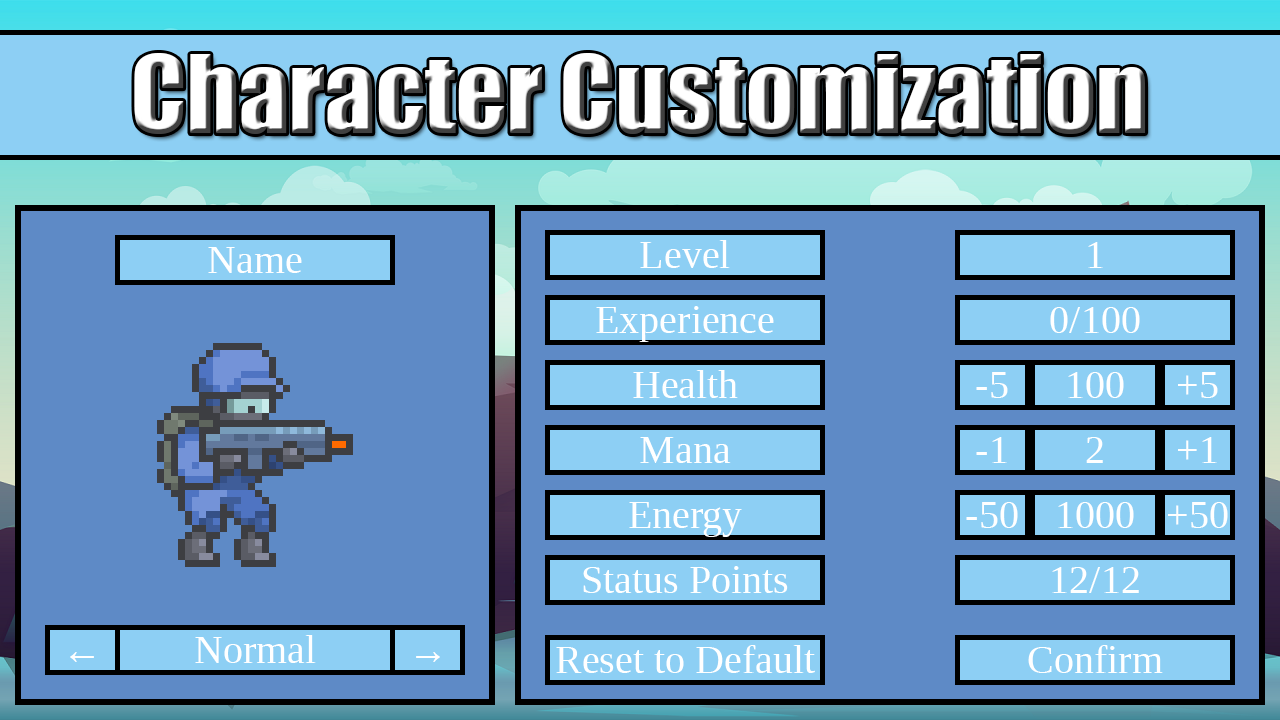
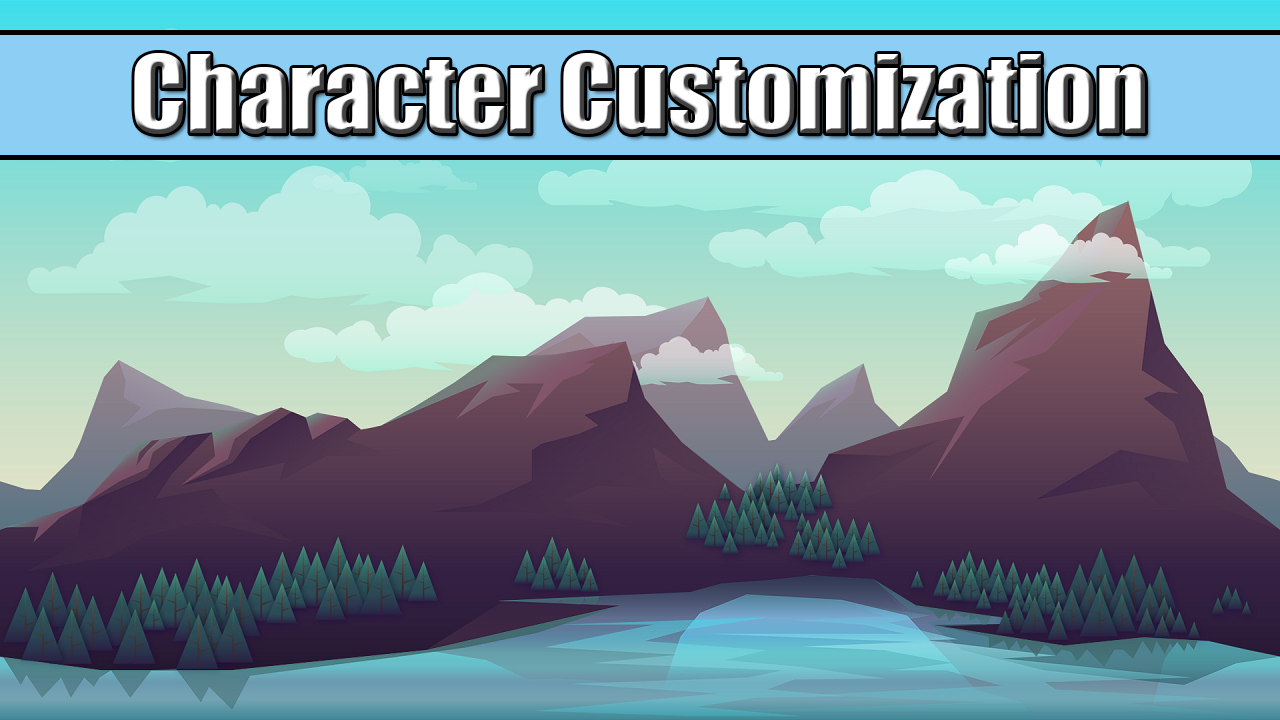
[Game Project 10] Travelers of Elrualia v0.2.4f - Menus - Update(Menu[character_customization, interface)

diff --git a/[Game Project 10] Travelers of Elrualia.py b/[Game Project 10] Travelers of Elrualia.py
@@ -147,6 +147,10 @@ class Game:
         self.ui_color = self.game_dict["ui_color"]
         self.status_color = self.game_dict["status_color"]
 
+        self.interface_color = self.game_dict["interface_color"]
+        self.interface_border_color = self.game_dict["interface_border_color"]
+        self.interface_border_size = self.game_dict["interface_border_size"]
+
         # Pause Screen
         self.dim_screen = pygame.Surface(self.gameDisplay.get_size()).convert_alpha()
         self.dim_screen.fill((100, 100, 100, 120))
@@ -199,6 +203,10 @@ class Game:
             "options_menu": {
                 "game_status": "options_menu",
                 "background": "background_options.png",
+                "music": "PerituneMaterial_Whisper_loop.ogg"},
+            "character_customization": {
+                "game_status": "character_customization",
+                "background": "background_chracter_customization.png",
                 "music": "PerituneMaterial_Whisper_loop.ogg"},
             "dialogue_1": {
                 "game_status": "battle",
@@ -256,6 +264,48 @@ class Game:
                 "sound_active": None, "sound_action": None},
             "options_confirm": {
                 "pos": [590, 660], "width": 280, "height": 50, "border_size": self.button_border_size, "border_color": self.button_border_color, "center": True,
+                "inactive": self.button_inactive, "active": self.button_active, "font": self.button_font, "color": self.button_color,
+                "sound_active": None, "sound_action": None},
+
+            # Character Customization ---------- #
+            "character_difficulty_left": {
+                "pos": [82, 655], "width": 75, "height": 50, "border_size": self.button_border_size, "border_color": self.button_border_color, "center": True,
+                "inactive": self.button_inactive, "active": self.button_active, "font": self.button_font, "color": self.button_color,
+                "sound_active": None, "sound_action": None},
+            "character_difficulty_right": {
+                "pos": [427, 655], "width": 75, "height": 50, "border_size": self.button_border_size, "border_color": self.button_border_color, "center": True,
+                "inactive": self.button_inactive, "active": self.button_active, "font": self.button_font, "color": self.button_color,
+                "sound_active": None, "sound_action": None},
+            "character_health_down": {
+                "pos": [992, 385], "width": 75, "height": 50, "border_size": self.button_border_size, "border_color": self.button_border_color, "center": True,
+                "inactive": self.button_inactive, "active": self.button_active, "font": self.button_font, "color": self.button_color,
+                "sound_active": None, "sound_action": None},
+            "character_health_up": {
+                "pos": [1197, 385], "width": 75, "height": 50, "border_size": self.button_border_size, "border_color": self.button_border_color, "center": True,
+                "inactive": self.button_inactive, "active": self.button_active, "font": self.button_font, "color": self.button_color,
+                "sound_active": None, "sound_action": None},
+            "character_mana_down": {
+                "pos": [992, 450], "width": 75, "height": 50, "border_size": self.button_border_size, "border_color": self.button_border_color, "center": True,
+                "inactive": self.button_inactive, "active": self.button_active, "font": self.button_font, "color": self.button_color,
+                "sound_active": None, "sound_action": None},
+            "character_mana_up": {
+                "pos": [1197, 450], "width": 75, "height": 50, "border_size": self.button_border_size, "border_color": self.button_border_color, "center": True,
+                "inactive": self.button_inactive, "active": self.button_active, "font": self.button_font, "color": self.button_color,
+                "sound_active": None, "sound_action": None},
+            "character_energy_down": {
+                "pos": [992, 515], "width": 75, "height": 50, "border_size": self.button_border_size, "border_color": self.button_border_color, "center": True,
+                "inactive": self.button_inactive, "active": self.button_active, "font": self.button_font, "color": self.button_color,
+                "sound_active": None, "sound_action": None},
+            "character_energy_up": {
+                "pos": [1197, 515], "width": 75, "height": 50, "border_size": self.button_border_size, "border_color": self.button_border_color, "center": True,
+                "inactive": self.button_inactive, "active": self.button_active, "font": self.button_font, "color": self.button_color,
+                "sound_active": None, "sound_action": None},
+            "character_reset": {
+                "pos": [685, 660], "width": 280, "height": 50, "border_size": self.button_border_size, "border_color": self.button_border_color, "center": True,
+                "inactive": self.button_inactive, "active": self.button_active, "font": self.button_font, "color": self.button_color,
+                "sound_active": None, "sound_action": None},
+            "character_confirm": {
+                "pos": [1095, 660], "width": 280, "height": 50, "border_size": self.button_border_size, "border_color": self.button_border_color, "center": True,
                 "inactive": self.button_inactive, "active": self.button_active, "font": self.button_font, "color": self.button_color,
                 "sound_active": None, "sound_action": None},
         }
@@ -336,6 +386,39 @@ class Game:
             self.draw_shape(pygame.draw.rect, [180, 325, 280, 50], self.button_inactive, self.button_border_color, self.button_border_size)
             self.draw_text("Fullscreen", self.button_font, self.button_color, (180, 325), "center")
 
+        elif self.game_status == "character_customization":
+            self.draw_shape(pygame.draw.rect, [255, 455, 480, 500], self.interface_color, self.interface_border_color, self.interface_border_size)
+            self.draw_shape(pygame.draw.rect, [890, 455, 750, 500], self.interface_color, self.interface_border_color, self.interface_border_size)
+
+            self.draw_shape(pygame.draw.rect, [255, 255, 280, 50], self.button_inactive, self.button_border_color, self.button_border_size)
+            self.draw_text("Player", self.button_font, self.button_color, (255, 255), "center")
+            self.draw_shape(pygame.draw.rect, [255, 655, 280, 50], self.button_inactive, self.button_border_color, self.button_border_size)
+            self.draw_text("Difficulty", self.button_font, self.button_color, (255, 655), "center")
+
+            self.draw_shape(pygame.draw.rect, [685, 255, 280, 50], self.button_inactive, self.button_border_color, self.button_border_size)
+            self.draw_text("Level", self.button_font, self.button_color, (685, 255), "center")
+            self.draw_shape(pygame.draw.rect, [1095, 255, 280, 50], self.button_inactive, self.button_border_color, self.button_border_size)
+            self.draw_text("Level", self.button_font, self.button_color, (1095, 255), "center")
+            self.draw_shape(pygame.draw.rect, [685, 320, 280, 50], self.button_inactive, self.button_border_color, self.button_border_size)
+            self.draw_text("Experience", self.button_font, self.button_color, (685, 320), "center")
+            self.draw_shape(pygame.draw.rect, [1095, 320, 280, 50], self.button_inactive, self.button_border_color, self.button_border_size)
+            self.draw_text("Experience", self.button_font, self.button_color, (1095, 320), "center")
+            self.draw_shape(pygame.draw.rect, [685, 385, 280, 50], self.button_inactive, self.button_border_color, self.button_border_size)
+            self.draw_text("Heatlh", self.button_font, self.button_color, (685, 385), "center")
+            self.draw_shape(pygame.draw.rect, [1095, 385, 130, 50], self.button_inactive, self.button_border_color, self.button_border_size)
+            self.draw_text("Heatlh", self.button_font, self.button_color, (1095, 385), "center")
+            self.draw_shape(pygame.draw.rect, [685, 450, 280, 50], self.button_inactive, self.button_border_color, self.button_border_size)
+            self.draw_text("Mana", self.button_font, self.button_color, (685, 450), "center")
+            self.draw_shape(pygame.draw.rect, [1095, 450, 130, 50], self.button_inactive, self.button_border_color, self.button_border_size)
+            self.draw_text("Mana", self.button_font, self.button_color, (1095, 450), "center")
+            self.draw_shape(pygame.draw.rect, [685, 515, 280, 50], self.button_inactive, self.button_border_color, self.button_border_size)
+            self.draw_text("Energy", self.button_font, self.button_color, (685, 515), "center")
+            self.draw_shape(pygame.draw.rect, [1095, 515, 130, 50], self.button_inactive, self.button_border_color, self.button_border_size)
+            self.draw_text("Energy", self.button_font, self.button_color, (1095, 515), "center")
+            self.draw_shape(pygame.draw.rect, [685, 580, 280, 50], self.button_inactive, self.button_border_color, self.button_border_size)
+            self.draw_text("Status Points", self.button_font, self.button_color, (685, 580), "center")
+            self.draw_shape(pygame.draw.rect, [1095, 580, 280, 50], self.button_inactive, self.button_border_color, self.button_border_size)
+            self.draw_text("Status Points", self.button_font, self.button_color, (1095, 580), "center")
 
         elif self.game_status == "battle":
             self.gameDisplay.blit(self.interface_image, (0, 0))
@@ -344,11 +427,9 @@ class Game:
             pygame.draw.rect(self.gameDisplay, self.game_dict["color"]["cursor"], (int(self.player.debug_pos[0] + (self.player.grid_pos[0]+4) * self.player.grid_dt[0]), int(self.player.debug_pos[1] + self.player.grid_pos[1] * self.player.grid_dt[1]), self.player.debug_dt[0], self.player.debug_dt[1]))
 
             # Player --------------------------- #
-            index = 0
-            for cooldown in self.player.cooldown:
+            for index, cooldown in enumerate(self.player.cooldown):
                 pygame.draw.rect(self.gameDisplay, LIGHTGREY, (50+50*index, 670, 40, int(-40 * self.player.cooldown[cooldown] / self.player.spell_cooldown[cooldown])))
                 self.draw_text(cooldown, self.ui_font, BLUE, (70+50*index, 650), "center")
-                index += 1
 
             pygame.draw.rect(self.gameDisplay, LIGHTGREY, (270, 630, int(100 * self.player.mana / self.player.max_mana), 40))
             self.draw_text(int(self.player.mana), self.ui_font, self.ui_color, self.player.mana_pos, "center")
@@ -403,7 +484,7 @@ class Game:
                     button.kill()
 
                 if self.game_status == "main_menu":
-                    Button(self, self.button_dict, "new_game", self.buttons, "New Game", action=self.update_stage, variable="battle_1")
+                    Button(self, self.button_dict, "new_game", self.buttons, "New Game", action=self.update_stage, variable="character_customization")
                     Button(self, self.button_dict, "load_game", self.buttons, "Load Game")
                     Button(self, self.button_dict, "options", self.buttons, "Options", action=self.update_stage, variable="options_menu")
                     Button(self, self.button_dict, "exit", self.buttons, "Exit", action=self.quit_game)
@@ -414,7 +495,16 @@ class Game:
                     Button(self, self.button_dict, "options_reset", self.buttons, "Reset to Default")
                     Button(self, self.button_dict, "options_confirm", self.buttons, "Confirm", action=self.update_stage, variable=self.previous_status)
                 elif self.game_status == "character_customization":
-                    pass
+                    Button(self, self.button_dict, "character_difficulty_left", self.buttons, "◄", action=self.update_volume, variable=-1)
+                    Button(self, self.button_dict, "character_difficulty_right", self.buttons, "►", action=self.update_volume, variable=+1)
+                    Button(self, self.button_dict, "character_health_down", self.buttons, "-5", action=self.update_volume, variable=-5)
+                    Button(self, self.button_dict, "character_health_up", self.buttons, "+5", action=self.update_volume, variable=+5)
+                    Button(self, self.button_dict, "character_mana_down", self.buttons, "-1", action=self.update_volume, variable=-1)
+                    Button(self, self.button_dict, "character_mana_up", self.buttons, "+1", action=self.update_volume, variable=+1)
+                    Button(self, self.button_dict, "character_energy_down", self.buttons, "-50", action=self.update_volume, variable=-50)
+                    Button(self, self.button_dict, "character_energy_up", self.buttons, "+50", action=self.update_volume, variable=+50)
+                    Button(self, self.button_dict, "character_reset", self.buttons, "Reset to Default")
+                    Button(self, self.button_dict, "character_confirm", self.buttons, "Confirm", action=self.update_stage, variable="battle_1")
                 elif self.game_status == "battle":
                     for enemy in self.characters:
                         if enemy.object != "player":

diff --git a/Settings.py b/Settings.py
@@ -35,6 +35,7 @@ ORANGE = 255, 120, 30
 GAME_DICT = {"background_color": LIGHTBLUE, "background_image": "rizaldarmawansyah_Mountain.png", "interface_image": "background_battle.png",
              "platform_size": [950, 270],
              "main_menu_font": None, "main_menu_size": 100, "main_menu_color": WHITE,
+             "interface_color": (95, 140, 200), "interface_border_color": BLACK, "interface_border_size": 5,
              "button_font": "LiberationSerif-Regular.ttf", "button_size": 40, "button_color": WHITE, "button_border_color": BLACK, "button_border_size": 5,
              "ui_font": None, "ui_size": 40, "ui_color": WHITE,
              "status_font": None, "status_size": 25, "status_color": WHITE,
